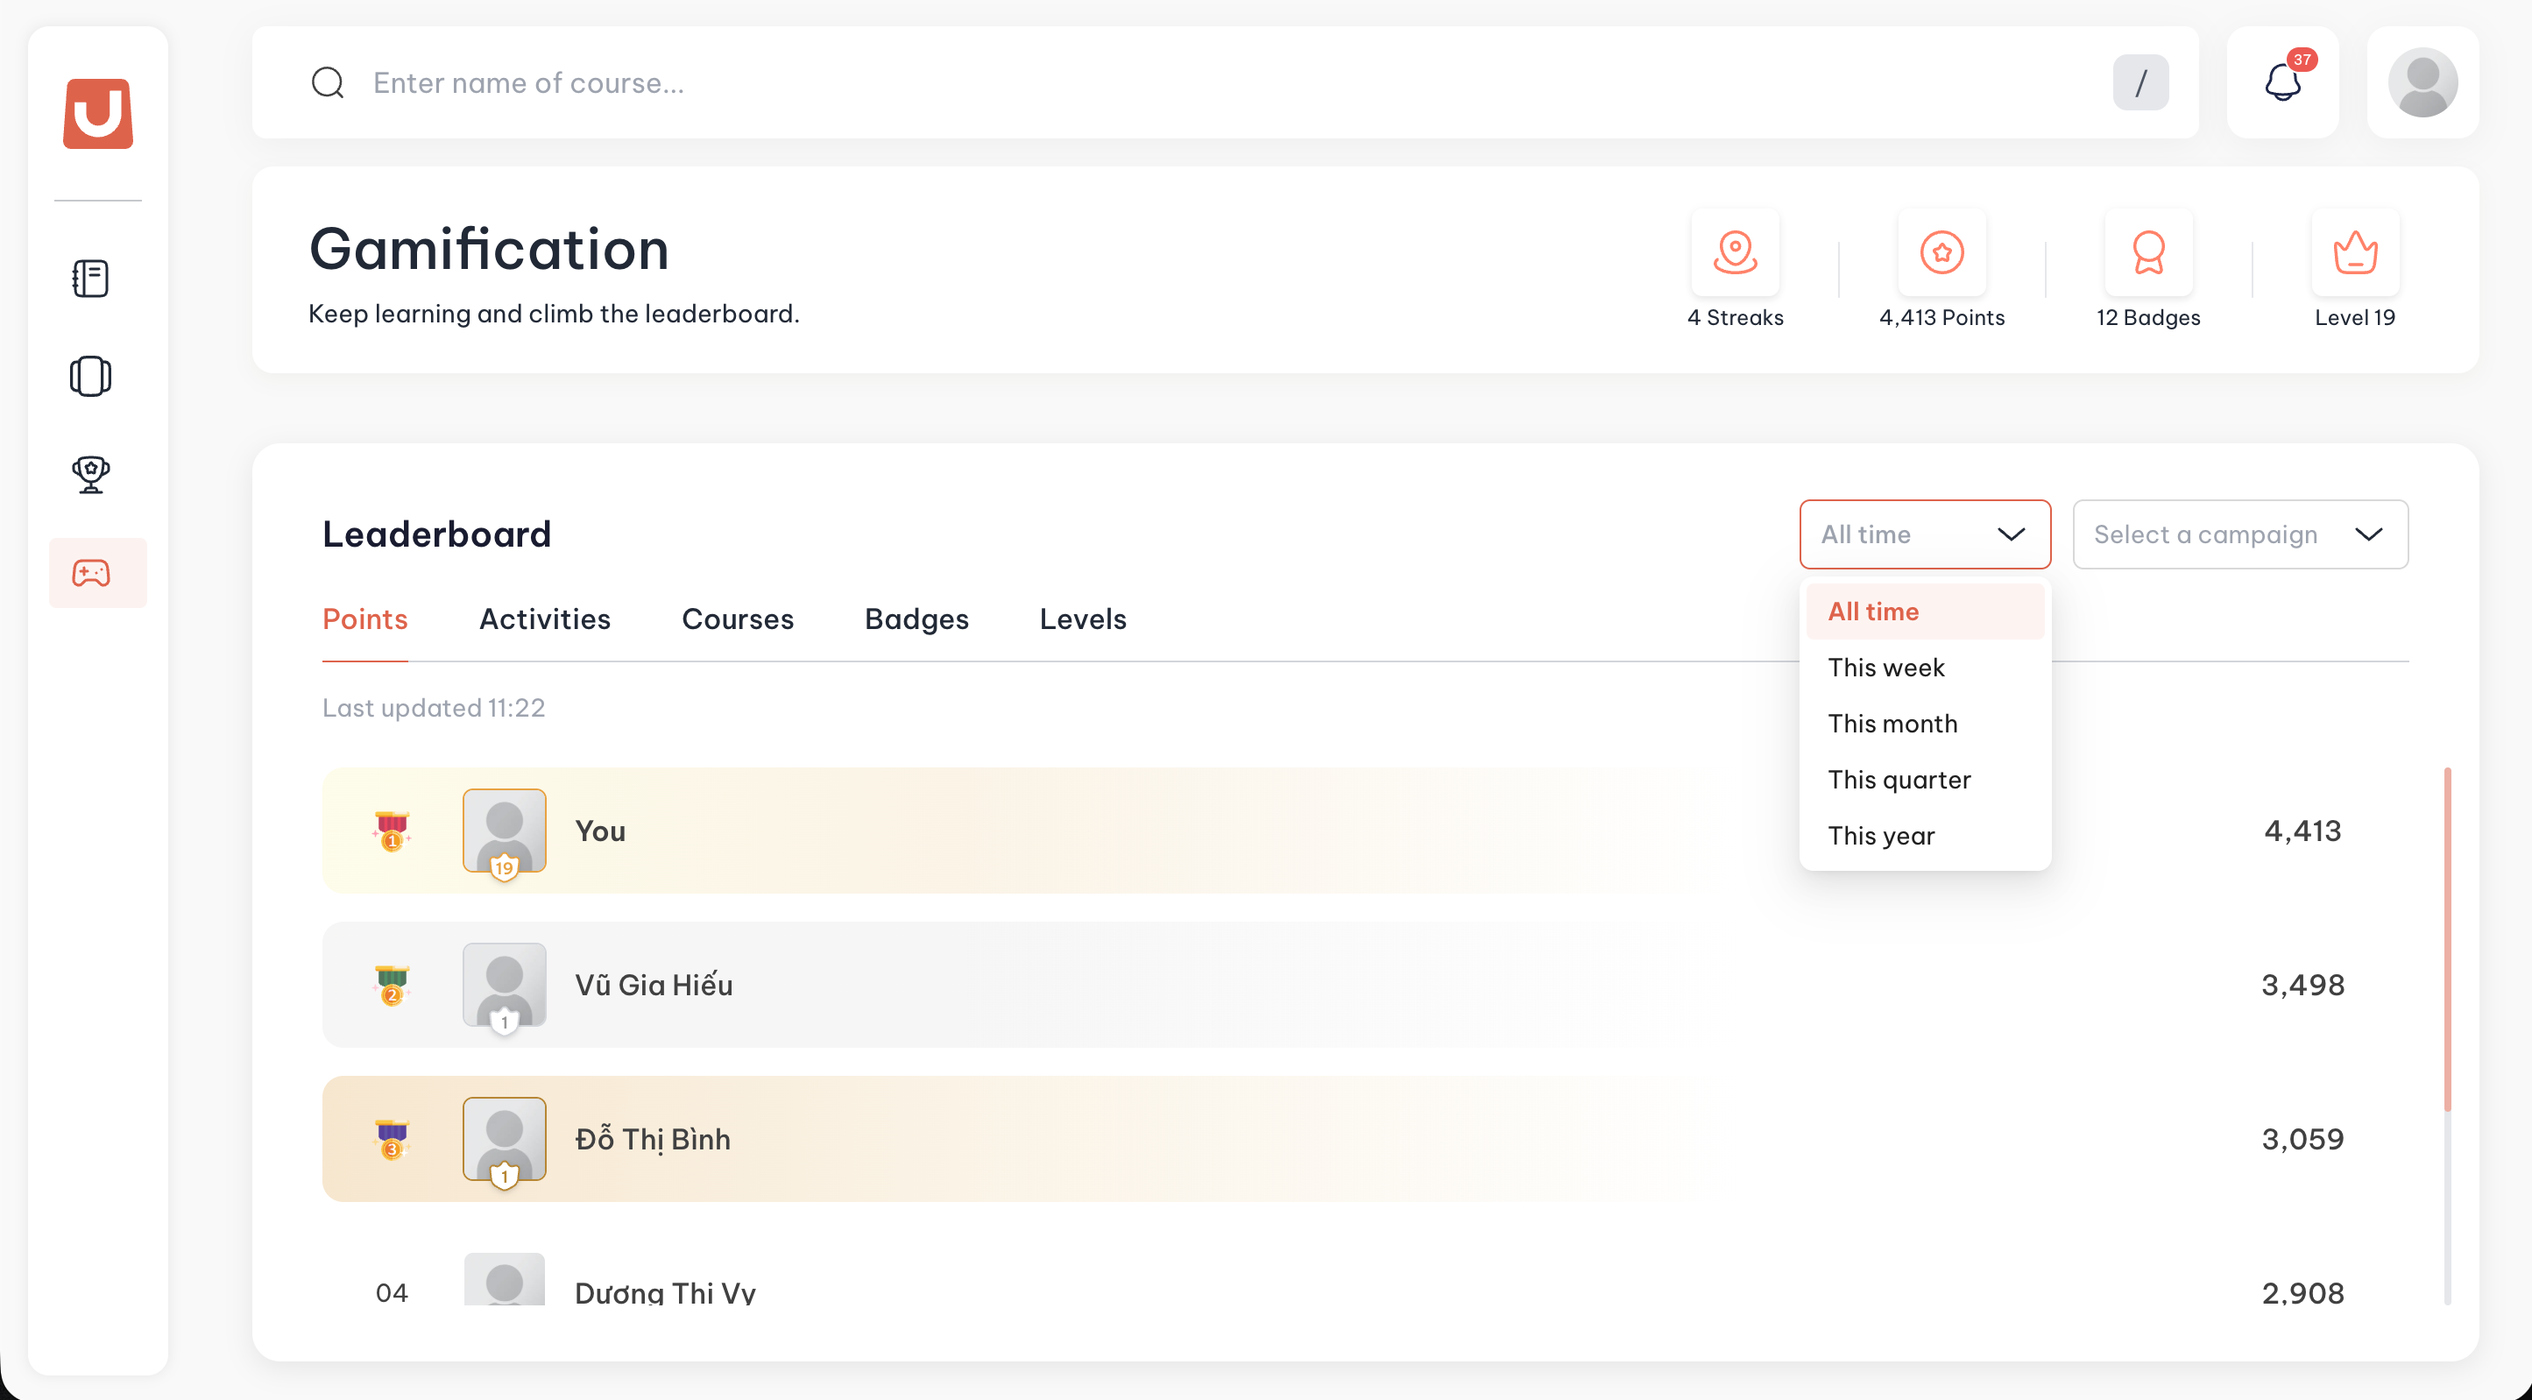
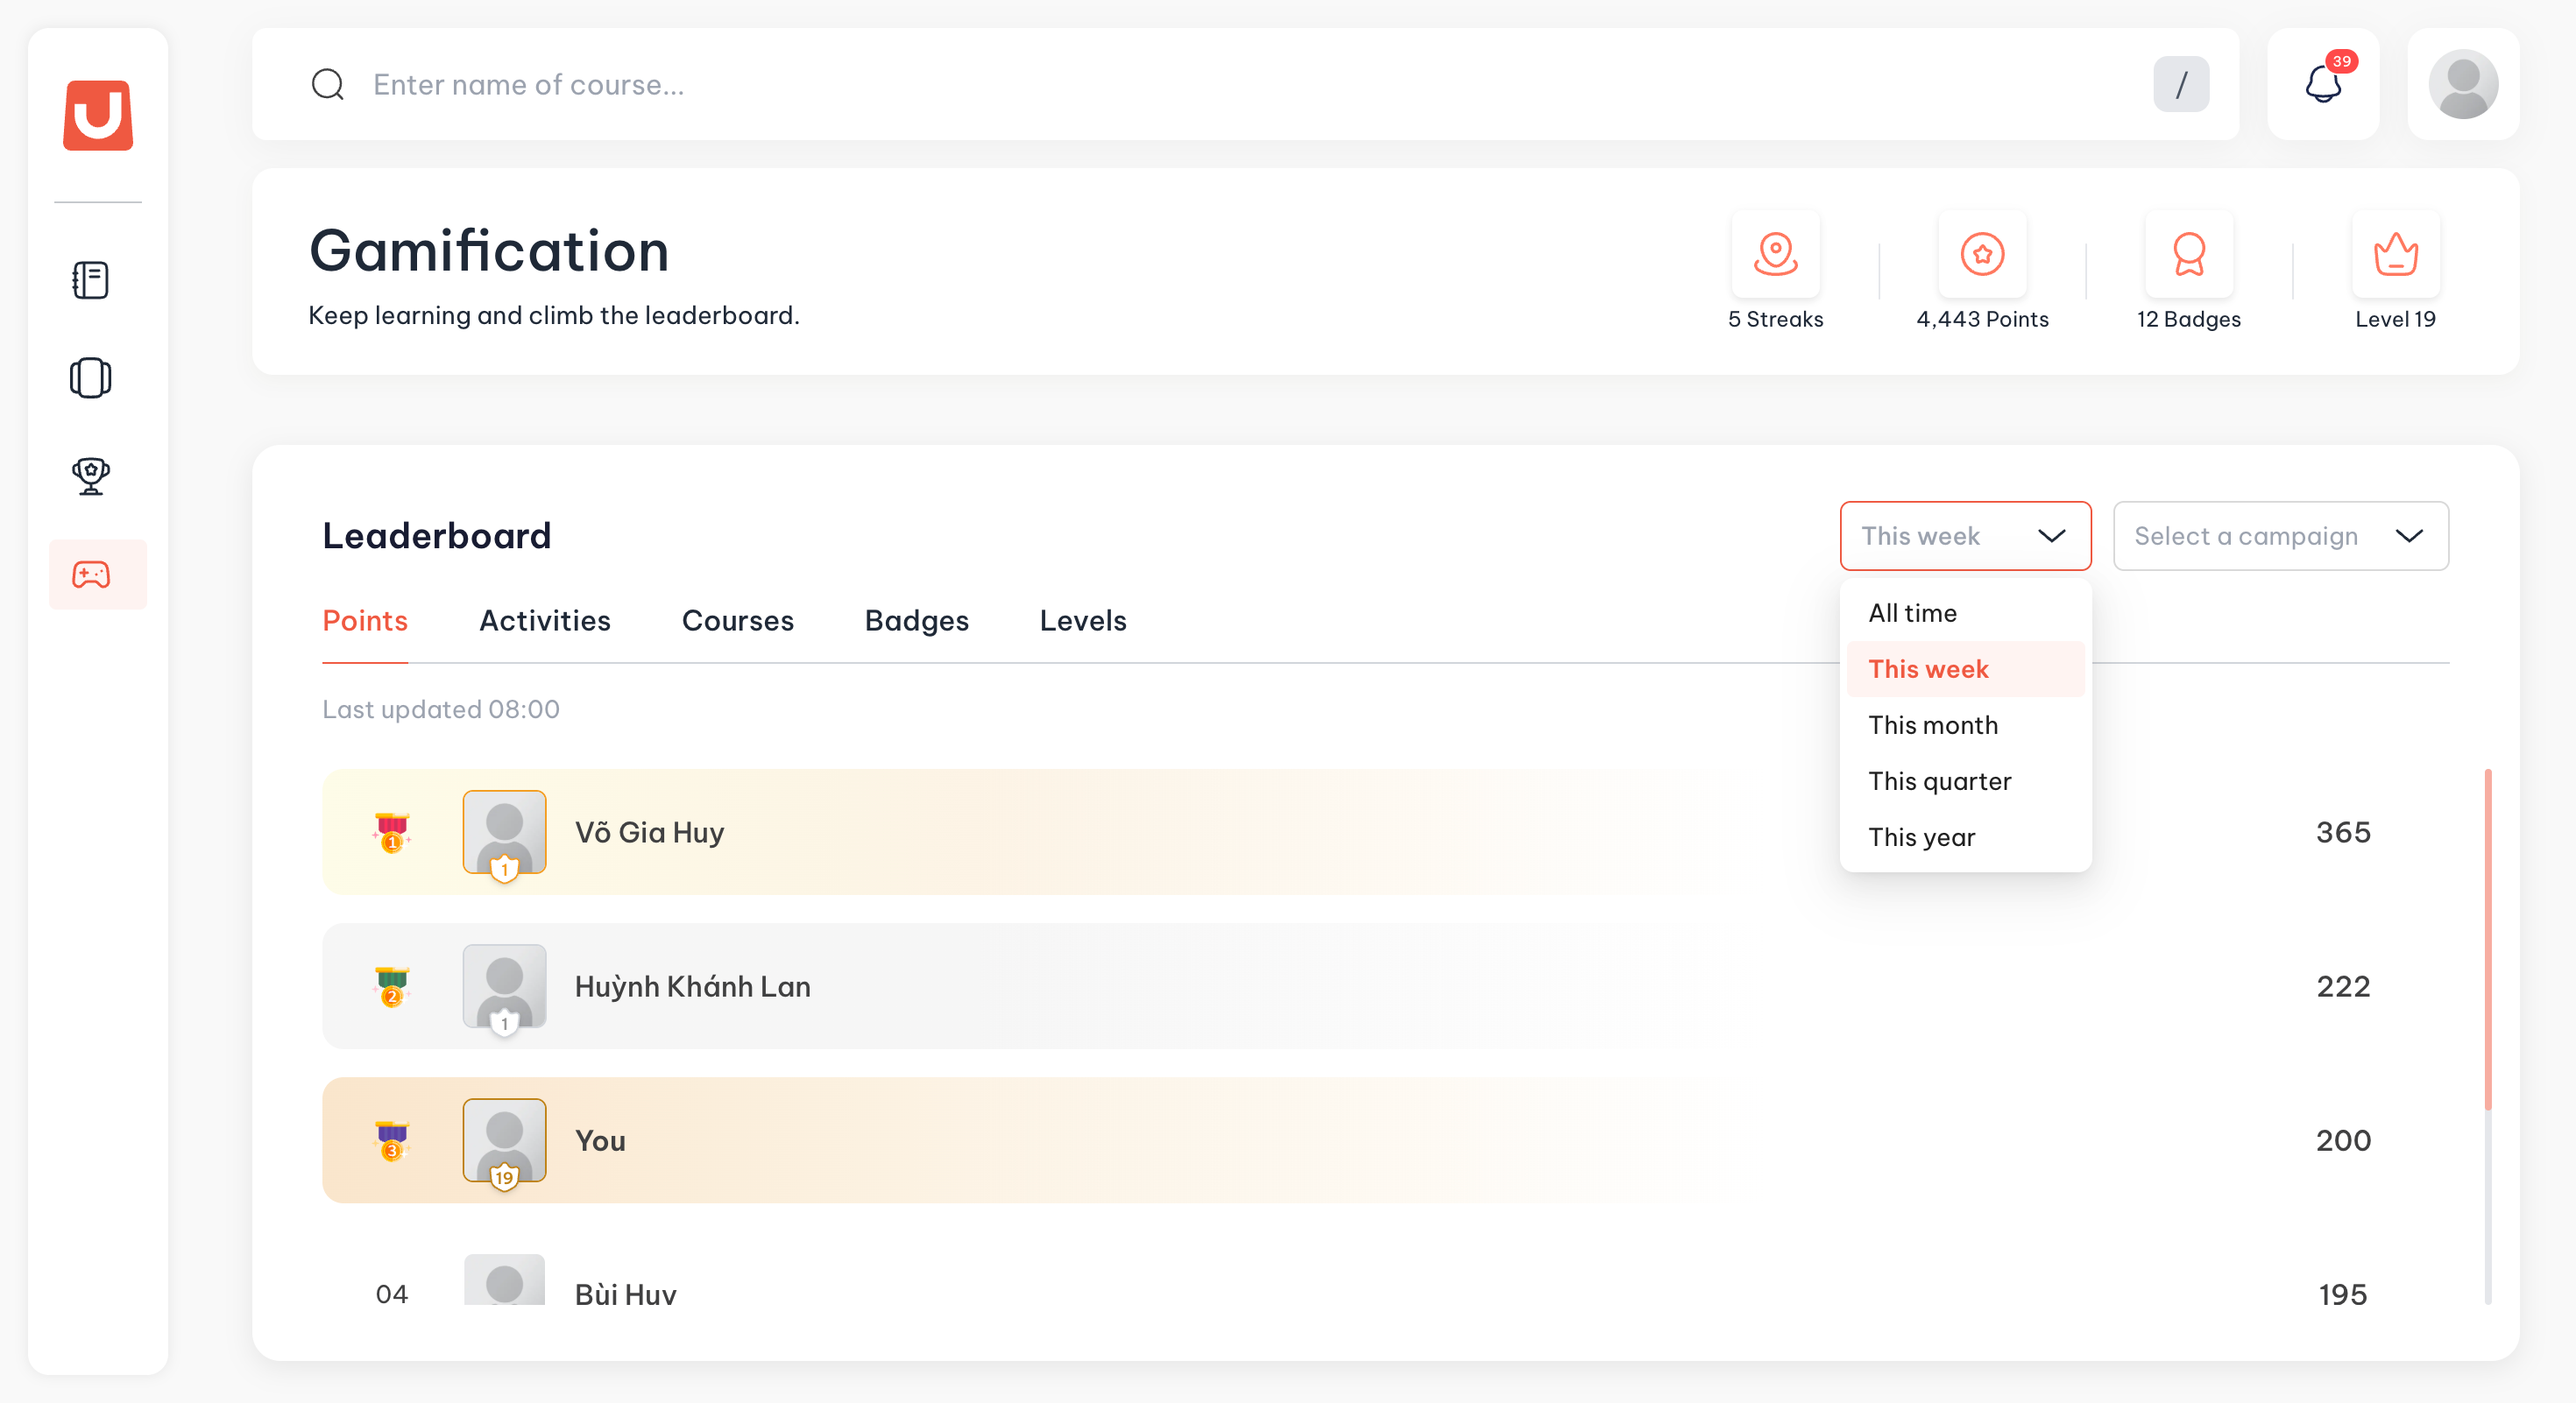
update gamification user guide

diff --git a/gamification/huy-hieu-va-hang.md b/gamification/huy-hieu-va-hang.md
@@ -50,7 +50,7 @@ layout:
 
 <details>
 
-<summary>Huy hiệu</summary>
+<summary>Huy hiệu (Badges) </summary>
 
 {% stepper %}
 {% step %}
@@ -86,7 +86,7 @@ Mỗi loại có tám mốc cố định:
 
 <details>
 
-<summary>Hạng</summary>
+<summary>Hạng (Level)</summary>
 
 {% stepper %}
 {% step %}
@@ -101,7 +101,9 @@ Mọi học viên bắt đầu ở `Level 1`. Hạng là một con số, không 
 **Xem cách lên hạng**
 <figure><img src="../.gitbook/assets/gamification-how-to-level-up.png" alt="Bảng How to level up? hiển thị tiến độ 210/1.500 điểm và yêu cầu tích lũy thêm 1.290 điểm để đạt Level 20"><figcaption><p>Xem tiến độ lên hạng: trong ví dụ này, học viên cần tích lũy thêm 1.290 điểm để đạt Level 20.</p></figcaption></figure>
 
-Chọn ô **Level** để mở bảng thông tin **How to level up?**, xem tiến độ và số điểm cần để lên hạng tiếp theo.”
+Chọn ô **Level** để mở bảng thông tin **How to level up?**, xem tiến độ và số điểm cần để lên hạng tiếp theo.
+
+Để biết cách nhận điểm, bấm **How to collect points?**, chi tiết xem tại [Cách nhận điểm](cach-nhan-diem.md).
 
 Cách lên hạng:
 
